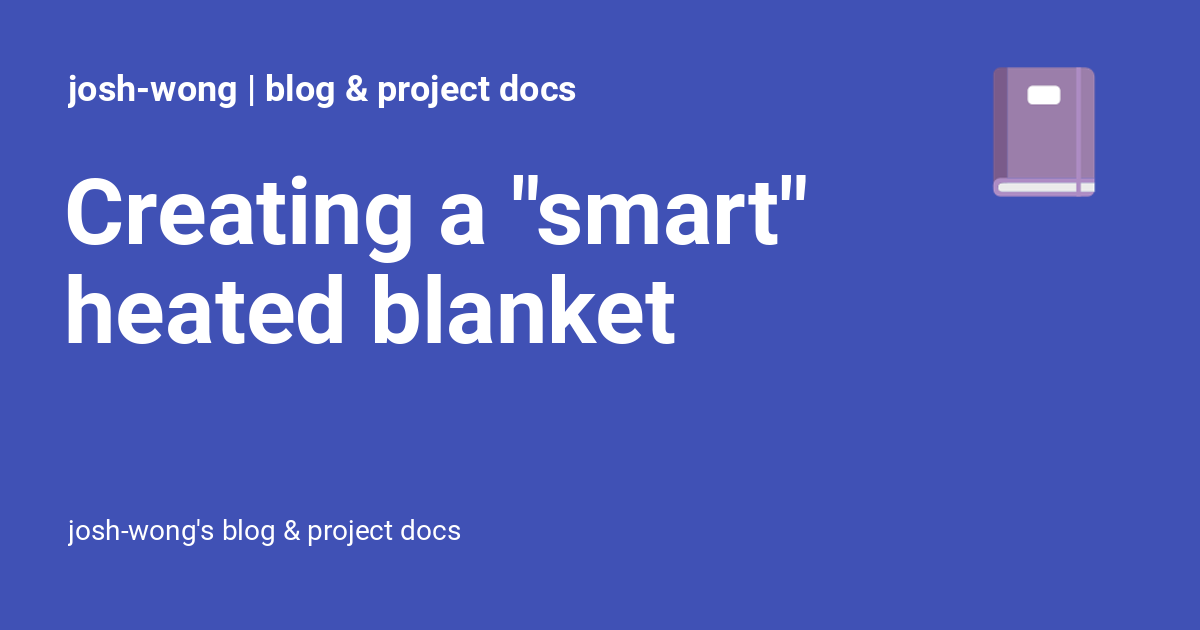
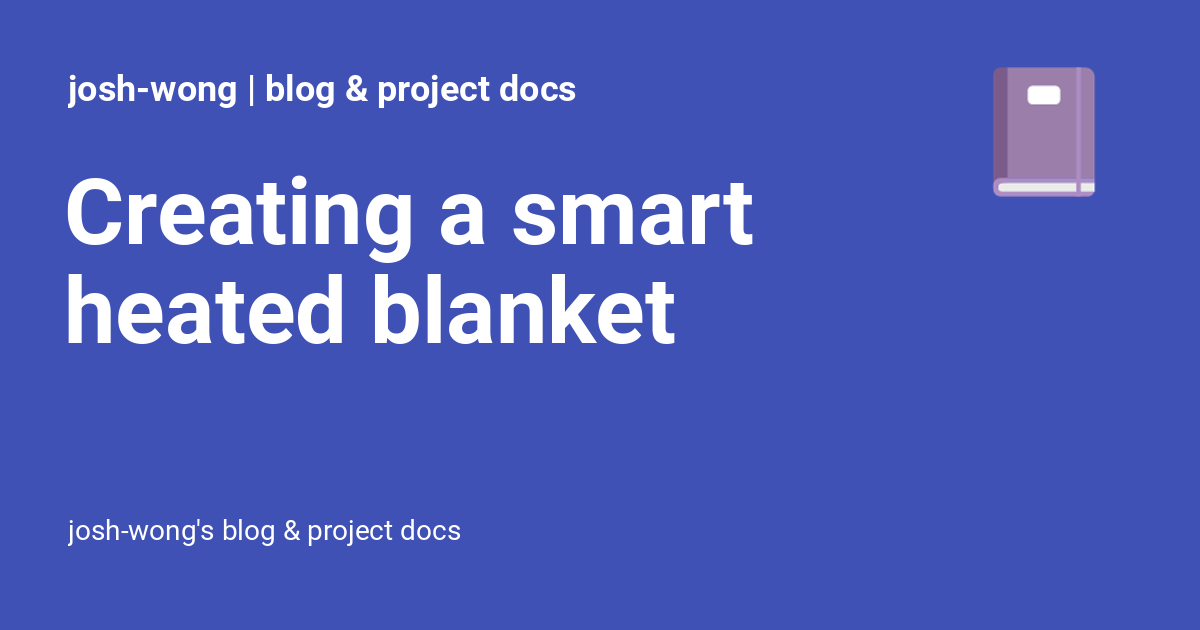
Deployed 0c5f37f with MkDocs version: 1.4.1

Changed region(s): [[0.4317, 0.2714, 0.6783, 0.3921]]

diff --git a/blog/2022/10/creating-a-smart-heated-blanket/index.html b/blog/2022/10/creating-a-smart-heated-blanket/index.html
@@ -24,7 +24,7 @@
     
     
       
-        <title>Creating a "smart" heated blanket - josh-wong | blog & project docs</title>
+        <title>Creating a smart heated blanket - josh-wong | blog & project docs</title>
       
     
     
@@ -110,7 +110,7 @@
       
         <meta  property="og:type"  content="website" >
       
-        <meta  property="og:title"  content="Creating a "smart" heated blanket - josh-wong | blog & project docs" >
+        <meta  property="og:title"  content="Creating a smart heated blanket - josh-wong | blog & project docs" >
       
         <meta  property="og:description"  content="josh-wong's blog & project docs" >
       
@@ -126,7 +126,7 @@
       
         <meta  name="twitter:card"  content="summary_large_image" >
       
-        <meta  name="twitter:title"  content="Creating a "smart" heated blanket - josh-wong | blog & project docs" >
+        <meta  name="twitter:title"  content="Creating a smart heated blanket - josh-wong | blog & project docs" >
       
         <meta  name="twitter:description"  content="josh-wong's blog & project docs" >
       
@@ -187,7 +187,7 @@
         <div class="md-header__topic" data-md-component="header-topic">
           <span class="md-ellipsis">
             
-              Creating a "smart" heated blanket
+              Creating a smart heated blanket
             
           </span>
         </div>
@@ -1205,7 +1205,7 @@
   </a>
 
 
-<h1 id="creating-a-smart-heated-blanket">Creating a "smart" heated blanket<a class="headerlink" href="#creating-a-smart-heated-blanket" title="Permanent link">&para;</a></h1>
+<h1 id="creating-a-smart-heated-blanket">Creating a smart heated blanket<a class="headerlink" href="#creating-a-smart-heated-blanket" title="Permanent link">&para;</a></h1>
 <p>Every autumn and winter, I avoid turning on the HVAC units and space heaters in my apartment until absolutely necessary. The reason I wait is because those units:</p>
 <ul>
 <li>Are not energy efficient, which causes environmental waste and a higher electricity bill.</li>

diff --git a/blog/2022/10/recap-of-my-participation-in-the-2022-tell-21007-step-up-challenge/index.html b/blog/2022/10/recap-of-my-participation-in-the-2022-tell-21007-step-up-challenge/index.html
@@ -1353,13 +1353,13 @@
       
       
         
-        <a href="../creating-a-smart-heated-blanket/" class="md-footer__link md-footer__link--next" aria-label="Next: Creating a &#34;smart&#34; heated blanket" rel="next">
+        <a href="../creating-a-smart-heated-blanket/" class="md-footer__link md-footer__link--next" aria-label="Next: Creating a smart heated blanket" rel="next">
           <div class="md-footer__title">
             <div class="md-ellipsis">
               <span class="md-footer__direction">
                 Next
               </span>
-              Creating a "smart" heated blanket
+              Creating a smart heated blanket
             </div>
           </div>
           <div class="md-footer__button md-icon">

diff --git a/blog/archive/2022/index.html b/blog/archive/2022/index.html
@@ -1130,7 +1130,7 @@
     </div>
   </header>
   <div class="md-post__content md-typeset">
-    <h2>Creating a "smart" heated blanket</h2>
+    <h2>Creating a smart heated blanket</h2>
 <p>Every autumn and winter, I avoid turning on the HVAC units and space heaters in my apartment until absolutely necessary. The reason I wait is because those units:</p>
 <ul>
 <li>Are not energy efficient, which causes environmental waste and a higher electricity bill.</li>

diff --git a/blog/category/automation/index.html b/blog/category/automation/index.html
@@ -1130,7 +1130,7 @@
     </div>
   </header>
   <div class="md-post__content md-typeset">
-    <h2>Creating a "smart" heated blanket</h2>
+    <h2>Creating a smart heated blanket</h2>
 <p>Every autumn and winter, I avoid turning on the HVAC units and space heaters in my apartment until absolutely necessary. The reason I wait is because those units:</p>
 <ul>
 <li>Are not energy efficient, which causes environmental waste and a higher electricity bill.</li>

diff --git a/blog/category/iot/index.html b/blog/category/iot/index.html
@@ -1130,7 +1130,7 @@
     </div>
   </header>
   <div class="md-post__content md-typeset">
-    <h2>Creating a "smart" heated blanket</h2>
+    <h2>Creating a smart heated blanket</h2>
 <p>Every autumn and winter, I avoid turning on the HVAC units and space heaters in my apartment until absolutely necessary. The reason I wait is because those units:</p>
 <ul>
 <li>Are not energy efficient, which causes environmental waste and a higher electricity bill.</li>

diff --git a/blog/category/life/index.html b/blog/category/life/index.html
@@ -1130,7 +1130,7 @@
     </div>
   </header>
   <div class="md-post__content md-typeset">
-    <h2>Creating a "smart" heated blanket</h2>
+    <h2>Creating a smart heated blanket</h2>
 <p>Every autumn and winter, I avoid turning on the HVAC units and space heaters in my apartment until absolutely necessary. The reason I wait is because those units:</p>
 <ul>
 <li>Are not energy efficient, which causes environmental waste and a higher electricity bill.</li>

diff --git a/blog/index.html b/blog/index.html
@@ -1124,7 +1124,7 @@
     </div>
   </header>
   <div class="md-post__content md-typeset">
-    <h2>Creating a "smart" heated blanket</h2>
+    <h2>Creating a smart heated blanket</h2>
 <p>Every autumn and winter, I avoid turning on the HVAC units and space heaters in my apartment until absolutely necessary. The reason I wait is because those units:</p>
 <ul>
 <li>Are not energy efficient, which causes environmental waste and a higher electricity bill.</li>
